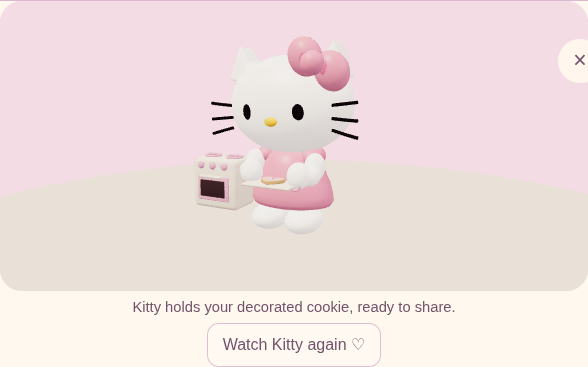
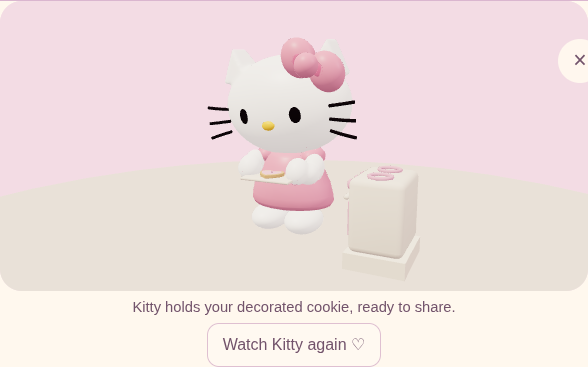
Record the verified natural cozy-life release and review evidence

diff --git a/docs/production-plan.md b/docs/production-plan.md
@@ -393,7 +393,7 @@ new performances. Original gift-19/gift-20 links continue to work. Physical
 phone/Mac Safari verification remains pending in the manual review checklist.
 
 
-## Cozy life · v1.9.0 (release gate running)
+## Cozy life · v1.9.0 (published)
 
 The user authorized six connected updates and emphasized natural motion, with an
 approximately one-hour improvement budget. All six are implemented: direct-input
@@ -433,3 +433,20 @@ coverage check ensures every suite appears exactly once; publication waits for
 the unit/build job and all four browser groups, then downloads the same immutable
 build artifact. No checks are removed. The Blender performance check now uses
 the new Stir control before observing the real input-driven pose.
+
+Deployment confirmed on 2026-11-04 (client date): [Pages run 41951571618](https://github.com/hmlim123/hellokittygame/actions/runs/41951571618)
+finished **Success** for source `ecef64eb9b5dcffba9a8978b0c48f0ffb6ac3eca`.
+All **184 automated checks** and **14 browser suites**, across four successful
+isolated groups, passed before Pages publication. The exact immutable build
+artifact passed every group and was then deployed. The live game and local
+website archive are **v1.9.0 / ecef64e**. Natural Blender source is pushed at
+`d99bb326edf69c9c9d38132f0b34e010369edbf4`; original editions remain intact.
+
+Share: <https://hmlim123.github.io/hellokittygame/?v=gift-20&update=cozy-22>.
+Choose **Play a mission → A little cookie delivery**, or open baking to use the
+spoon, cutter and oven slider. **Your cozy corner** contains earned placement
+and rain choices; the folded recipe book is inside baking. The refreshed URL
+keeps the permanent gift-start marker, Nancy's letter, and her earned progress.
+The implementation/local checks fit the requested approximately one-hour work
+window; final remote publication completed just after it. Physical Safari/phone
+review and first-time human journey timing remain pending.

diff --git a/docs/phone-playtest.md b/docs/phone-playtest.md
@@ -5,7 +5,7 @@ Physical device review is **pending**. Automated Chromium checks cover desktop,
 are not a physical iPhone, Android, Mac or Safari certification. WebKit is not
 installed in the cloud environment.
 
-Open https://hmlim123.github.io/hellokittygame/?v=toys-21 after the v1.8.0 Pages
+Open https://hmlim123.github.io/hellokittygame/?v=cozy-22 after the v1.9.0 Pages
 workflow succeeds. Check the version under Game settings. Use Settings → Keep
 your progress → Download backup before the review; do not clear your browser data.
 
@@ -77,3 +77,15 @@ available, but they are not required to record a problem.
 
 No physical-device results have been supplied yet. Keep this section open until
 Nancy’s actual phone and Mac/Safari have completed the journey above.
+
+## v1.9 natural cozy-life review
+
+Physical review is pending. Try circular spoon dragging, pointer cancellation,
+cutter pressing and the native oven slider; the paws should follow smoothly,
+keep their shoulders joined and remain with the props. The assisted bake button
+and keyboard/touch alternatives should also work. Try the delivery through Momo,
+Pip's entrance-side mint and return home. A packed cookie must stay reserved;
+a later batch must survive handing over the parcel. Check remembered gift text,
+strawberry/moon/cupcake unlocks, saved decoration spots, rain confined to the
+window, and optional sound under the master Sound switch. Repeat with Reduced
+motion, including a reload halfway through preparation or delivery.

diff --git a/README.md b/README.md
@@ -11,6 +11,8 @@ The agreed six-stage upgrade sequence and current milestone are tracked in
 
 ## Cozy life · v1.9.0
 
+Play: <https://hmlim123.github.io/hellokittygame/?v=gift-20&update=cozy-22>.
+
 Hands-on baking follows real input: drag a circle at the spoon, press the cutter,
 and slide the tray into the oven. Keyboard/touch alternatives and Kitty's assisted
 Bake & decorate path remain. The actual Blender arms now have soft elbow/paw
